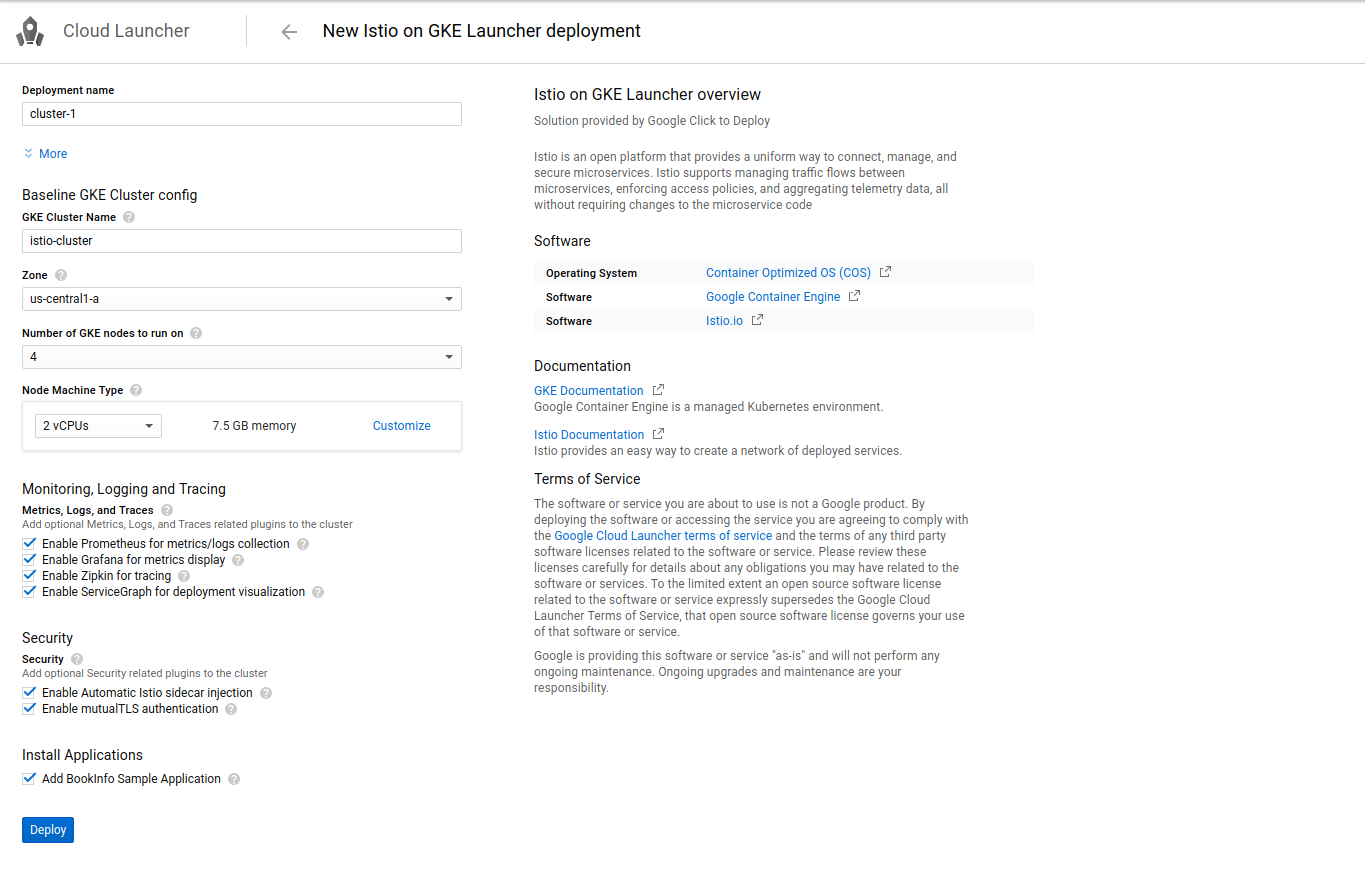
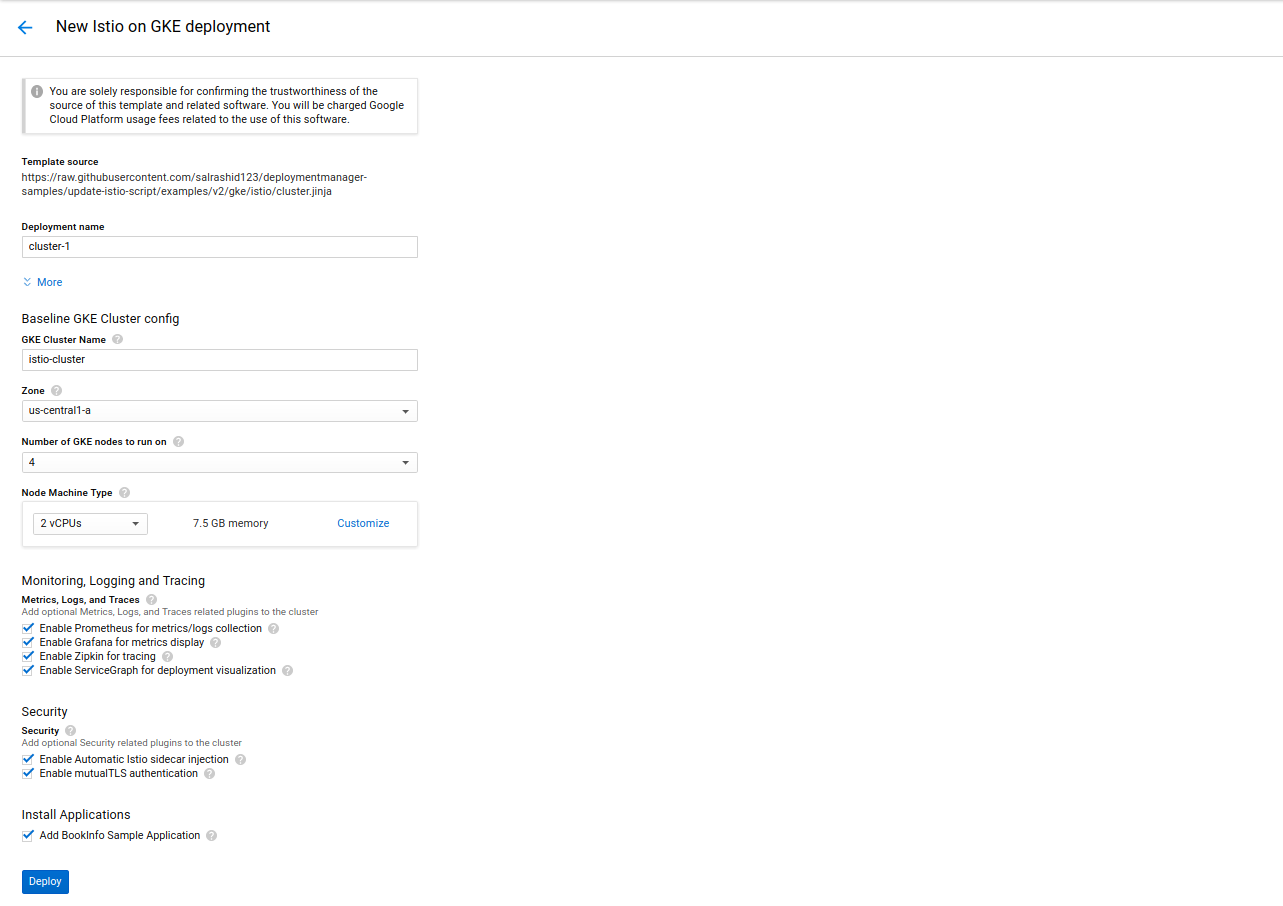
update warning; fix typos; update DM UI

diff --git a/_docs/setup/kubernetes/quick-start-gke-dm.md b/_docs/setup/kubernetes/quick-start-gke-dm.md
@@ -41,39 +41,42 @@ If you choose to use Cloud Shell, you can port forward and proxy using its [Web 
  style="width: 32px; display:inline" />
 **NOTE:** You must set your default compute service account to include:
 
-> - ```roles/container.admin```  (Container Engine Admin)
+> - ```roles/container.admin```  (Kubernetes Engine Admin)
 > - ```Editor```  (on by default)
 
-> To set this, navigate to the IAM section of the [Cloud Console](https://console.cloud.google.com/iam-admin/iam/project){:target="_blank"} and find your default GCE/GKE service account in the following form to set that permission:
+> To set this, navigate to the IAM section of the [Cloud Console](https://console.cloud.google.com/iam-admin/iam/project){:target="_blank"} and find your default GCE/GKE service account in the following form:
+
 ```
 projectNumber-compute@developer.gserviceaccount.com
 ```
+
+then under Roles, find the ```Kubernetes Engine``` group and set the role ```Kubernetes Engine Admin```.
 
 
 ## Setup
 
 ### Launch Deployment Manager
 
-Once you have an account and project enabled, simply proceed to the following link 
+Once you have an account and project enabled, proceed to the following link:
 
 - [Istio GKE Deployment
   Manager](https://accounts.google.com/signin/v2/identifier?service=cloudconsole&continue=https://console.cloud.google.com/launcher/config?templateurl=https://raw.githubusercontent.com/GoogleCloudPlatform/deploymentmanager-samples/istio-example/examples/v2/gke/istio/cluster.jinja&followup=https://console.cloud.google.com/launcher/config?templateurl=https://raw.githubusercontent.com/GoogleCloudPlatform/deploymentmanager-samples/istio-example/examples/v2/gke/istio/cluster.jinja&flowName=GlifWebSignIn&flowEntry=ServiceLogin){:target="_blank"}
 
 Its recommended to leave the the defaults on as the rest of the Quick Start demonstrates each feature.
 
-Click ``'Deploy'``
+Click ```Deploy```
 
 ![GKE-Istio Launcher](img/dm_launcher.png)
 
-> **NOTE:** Deployment will take upto 5minutes.
+> **NOTE:** Deployment can take upto 5 minutes.
 
 ### Bootstrap gcloud
 
 Once Deployment completes, on your workstation with gcloud installed:
 
-Bootstrap kubectl for the cluster you just created:
+- Bootstrap kubectl for the cluster you just created and confirm the cluster is
+  running and istio is enabled
 
-Confirm the cluster is running and istio is enabled:
 ```
 gcloud container clusters list
 ```
